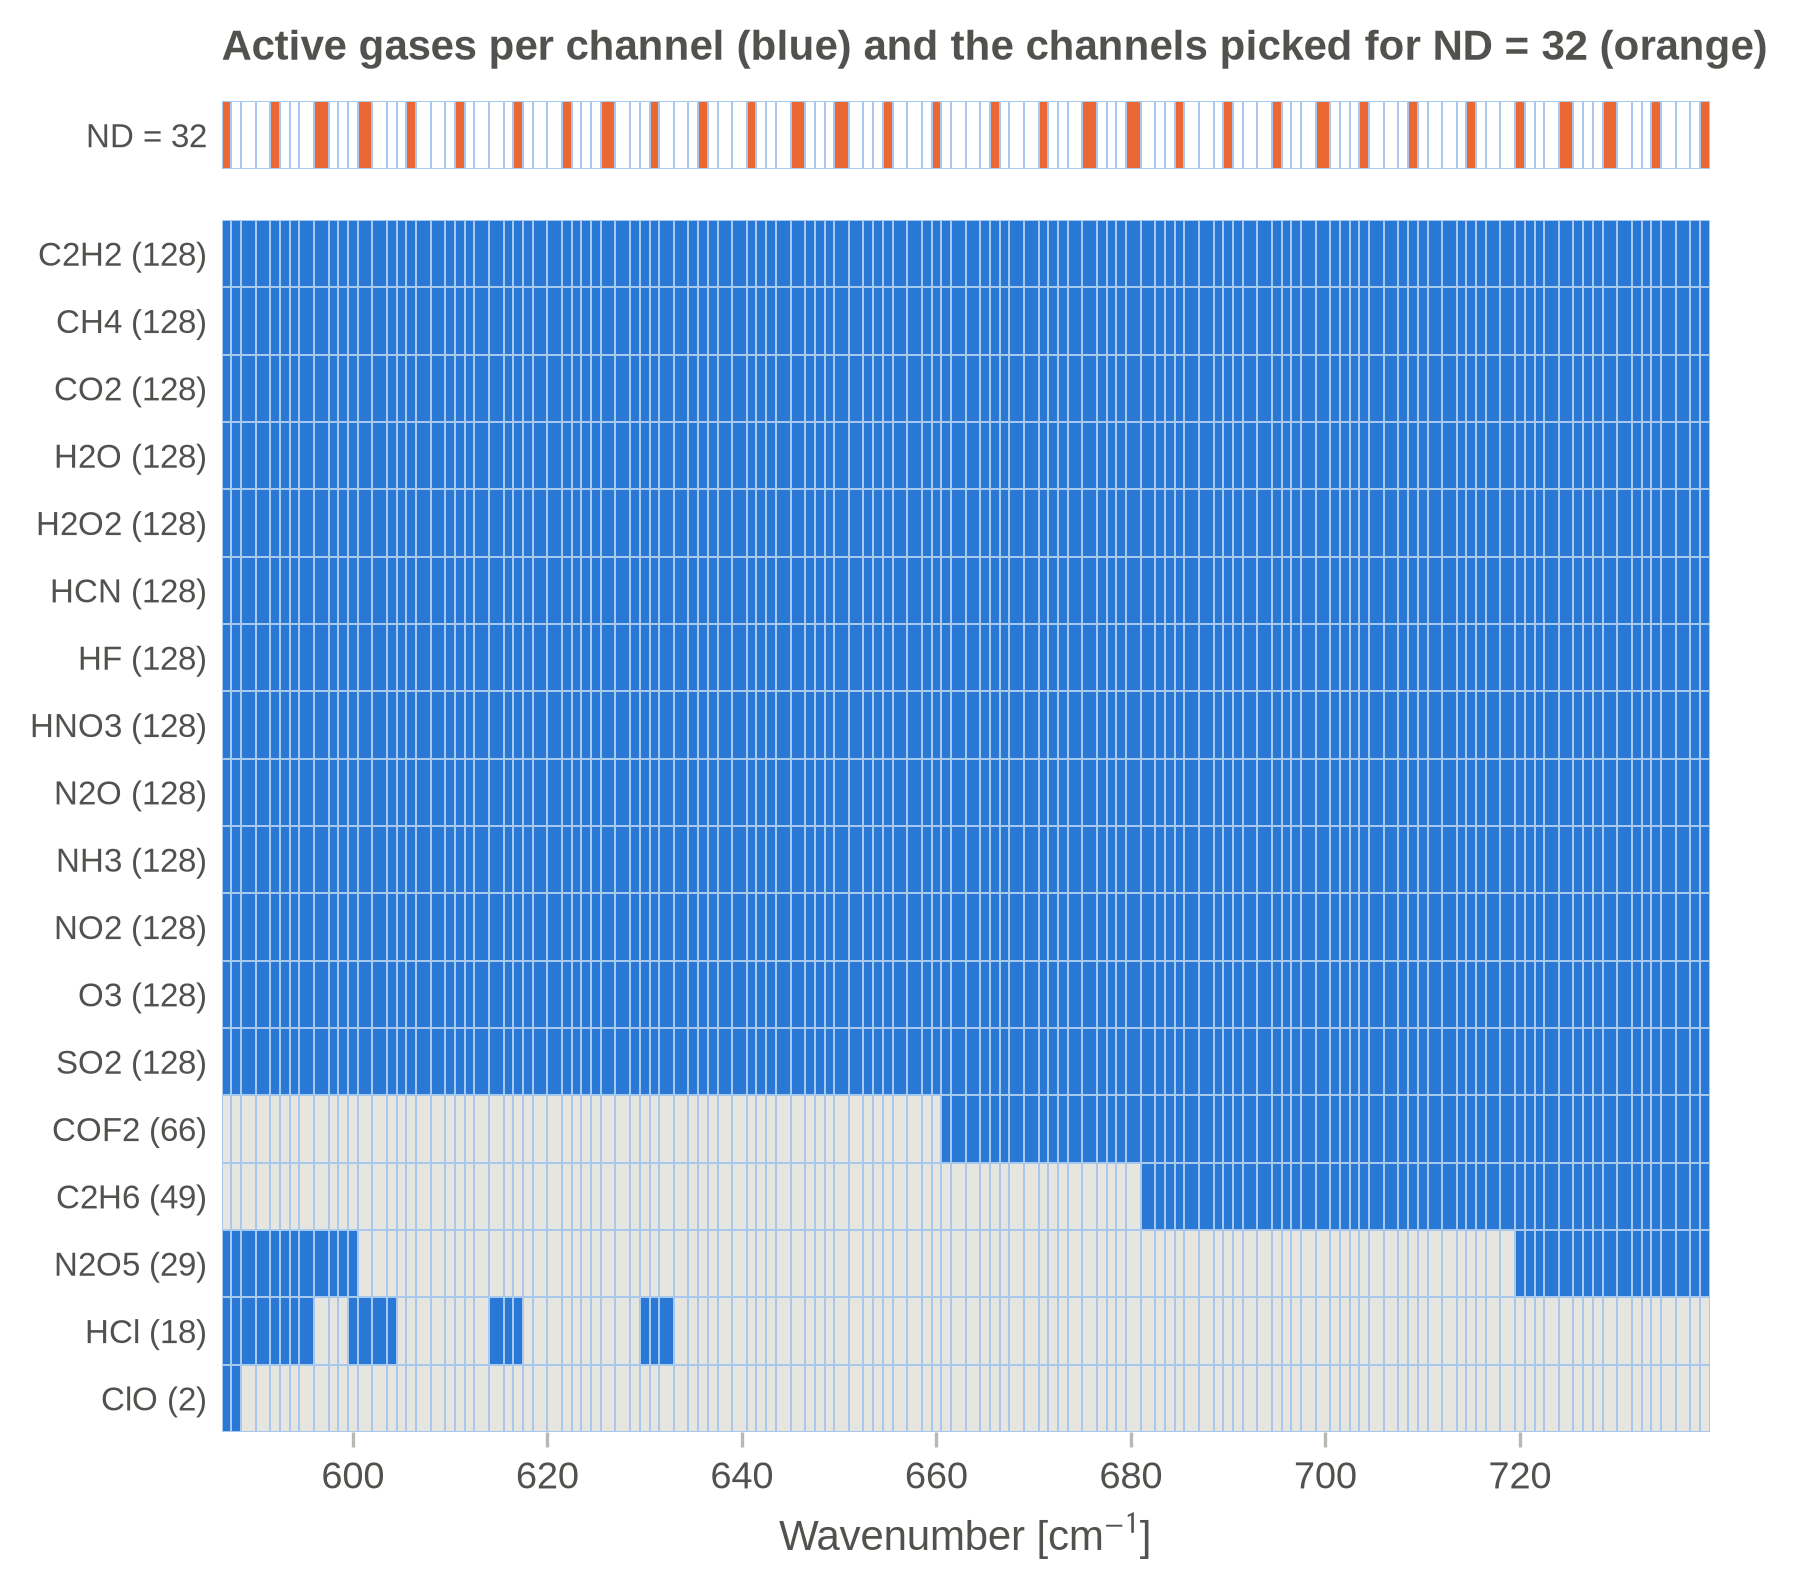
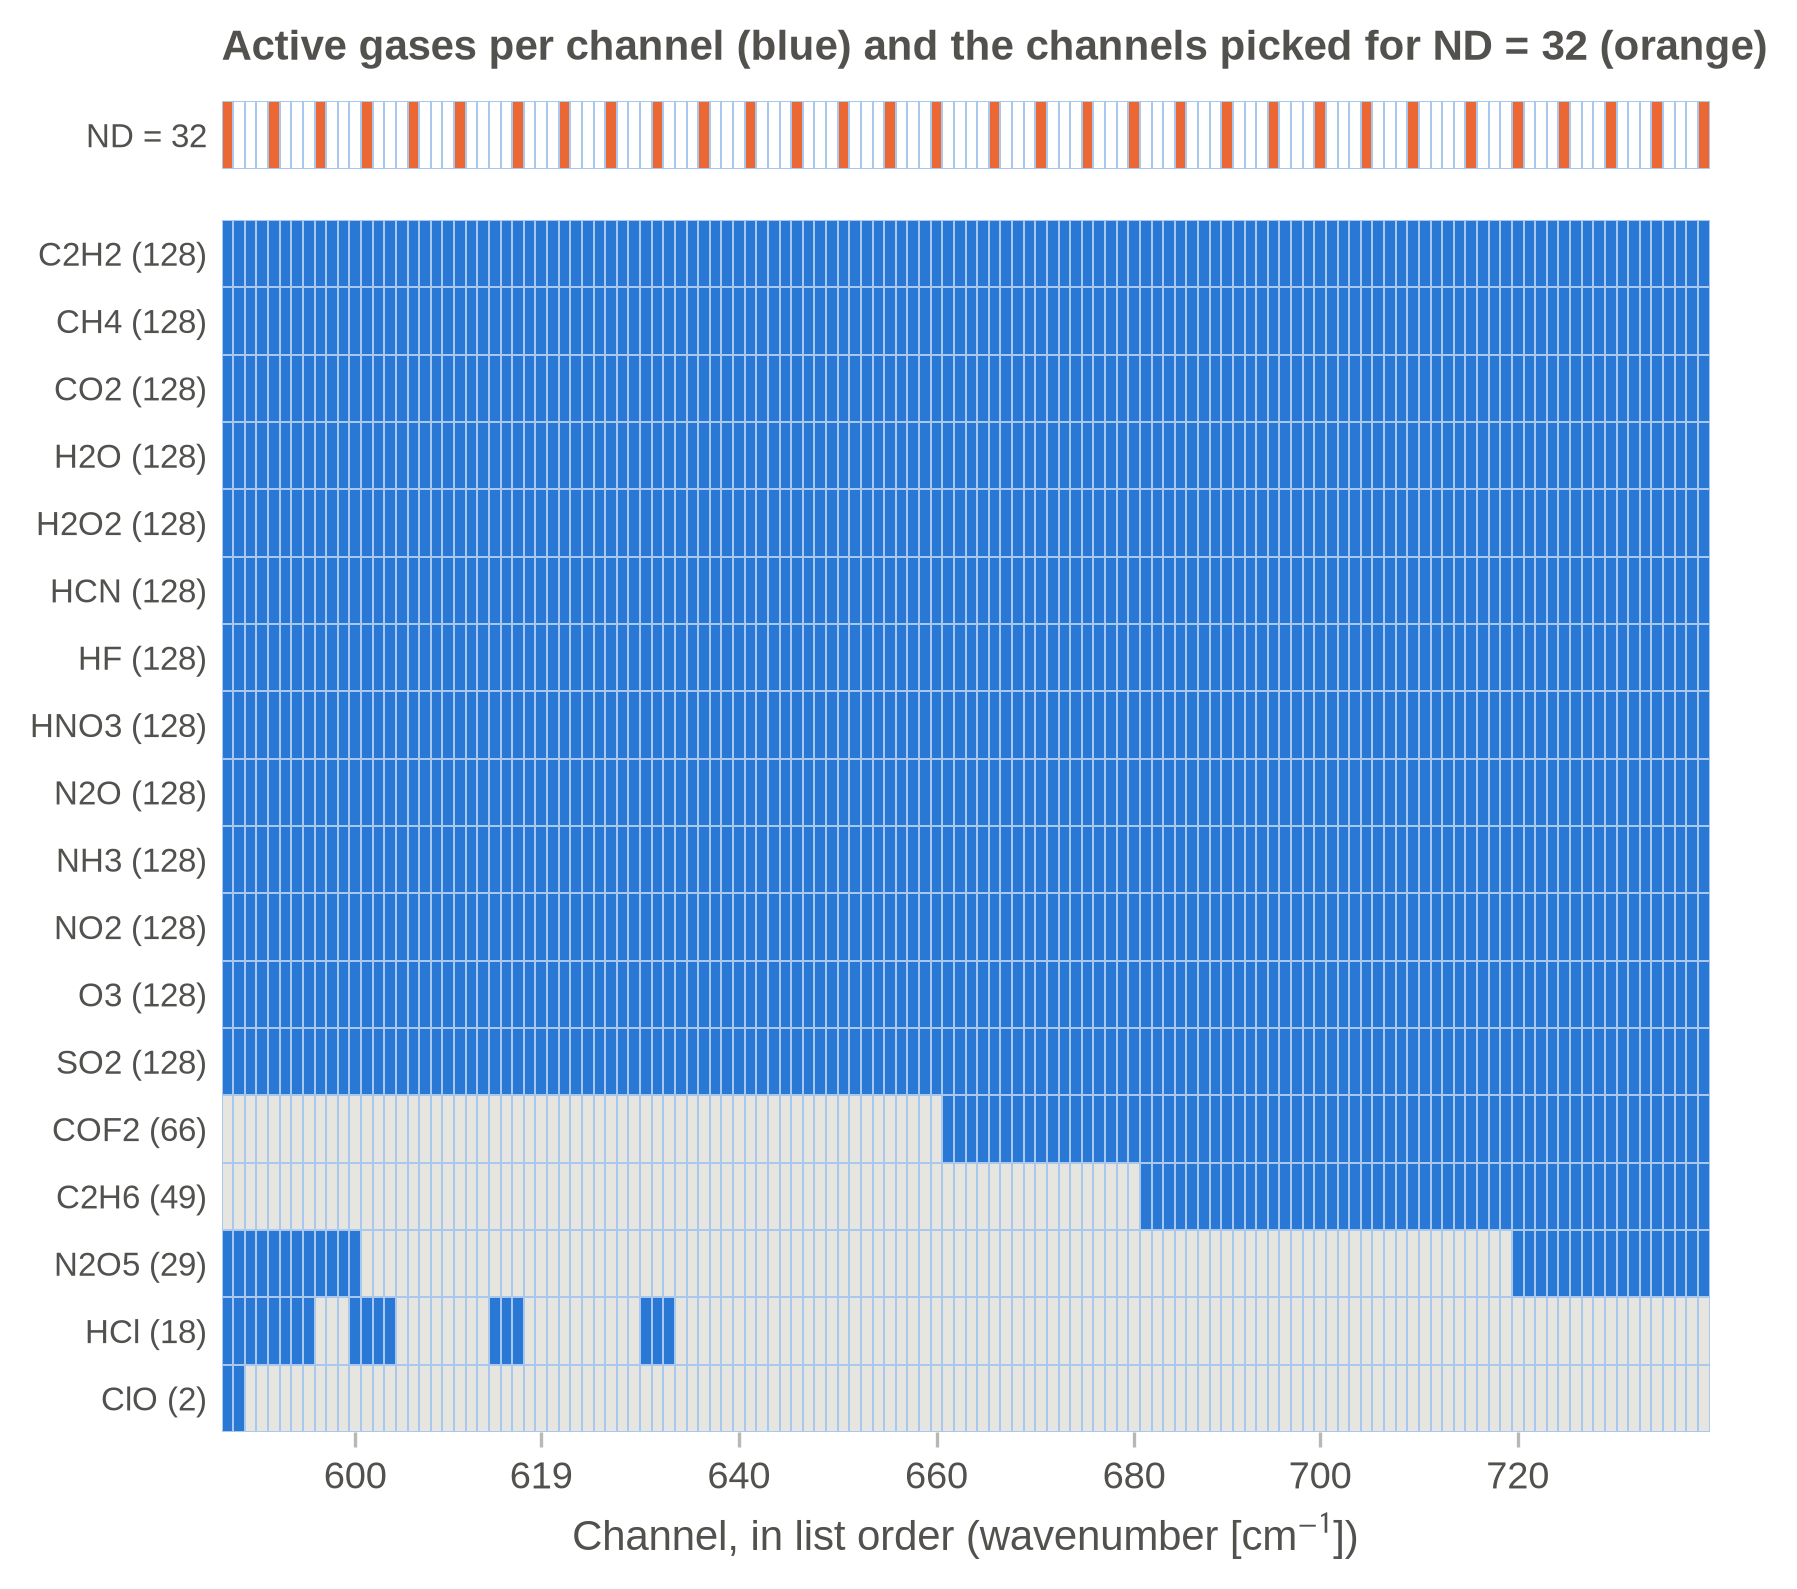
adjust channel-gas plot

Changed region(s): [[0.1247, 0.0617, 0.9661, 0.9868]]

diff --git a/projects/benchmark/plot_channels.py b/projects/benchmark/plot_channels.py
@@ -52,9 +52,9 @@ def main():
                    key=lambda g: (-sum(g in gs for _, gs in rows), g))
     active = np.array([[g in gs for _, gs in rows] for g in gases], dtype=int)
 
-    # cell edges halfway between channels (the list is not evenly spaced)
-    mid = (nu[:-1] + nu[1:]) / 2
-    edges = np.concatenate(([nu[0] - (mid[0] - nu[0])], mid, [nu[-1] + (nu[-1] - mid[-1])]))
+    # one equal-width column per channel of the list; the picks are evenly spaced in this
+    # order, not in wavenumber (the list has 1 and 2 cm^-1 gaps)
+    edges = np.arange(len(nu) + 1)
     cell = dict(edgecolors=CELL_EDGE, linewidth=0.4, vmin=0, vmax=1)
 
     fig, (ax_pick, ax) = plt.subplots(
@@ -73,7 +73,10 @@ def main():
     ax.set_ylim(len(gases), 0)
     ax.set_yticks(np.arange(len(gases)) + 0.5)
     ax.set_yticklabels([f"{g} ({active[i].sum()})" for i, g in enumerate(gases)], fontsize=8)
-    ax.set_xlabel("Wavenumber [cm$^{-1}$]")
+    ticks = sorted({int(np.abs(nu - t).argmin()) for t in range(600, int(nu[-1]) + 1, 20)})
+    ax.set_xticks(np.array(ticks) + 0.5)
+    ax.set_xticklabels([str(nu[i]) for i in ticks])
+    ax.set_xlabel("Channel, in list order (wavenumber [cm$^{-1}$])")
     for a in (ax_pick, ax):
         a.tick_params(axis="y", length=0)
         a.grid(False)

diff --git a/projects/benchmark/README.md b/projects/benchmark/README.md
@@ -18,7 +18,7 @@ JURASSIC only computes a gas in a channel if a lookup table exists for that gas 
 
 ![Active gases per channel in channels_alt3.tsv](figures/channels_alt3_gas_matrix.png)
 
-The script picks ND channels spread evenly over the whole range from 587 to 739 cm⁻¹. The reference setting has 458 active channel-gas pairs.
+The script picks ND channels evenly spaced in the list, including the first and the last one (for ND = 32 every 4th or 5th channel), so they cover the whole range from 587 to 739 cm⁻¹. Each column in the figure is one channel of the list. The reference setting has 458 active channel-gas pairs.
 
 The gas sets are defined in `configs/gas_sets/`. The name gives the number of gases, and each set contains the previous one plus some more gases:
 
